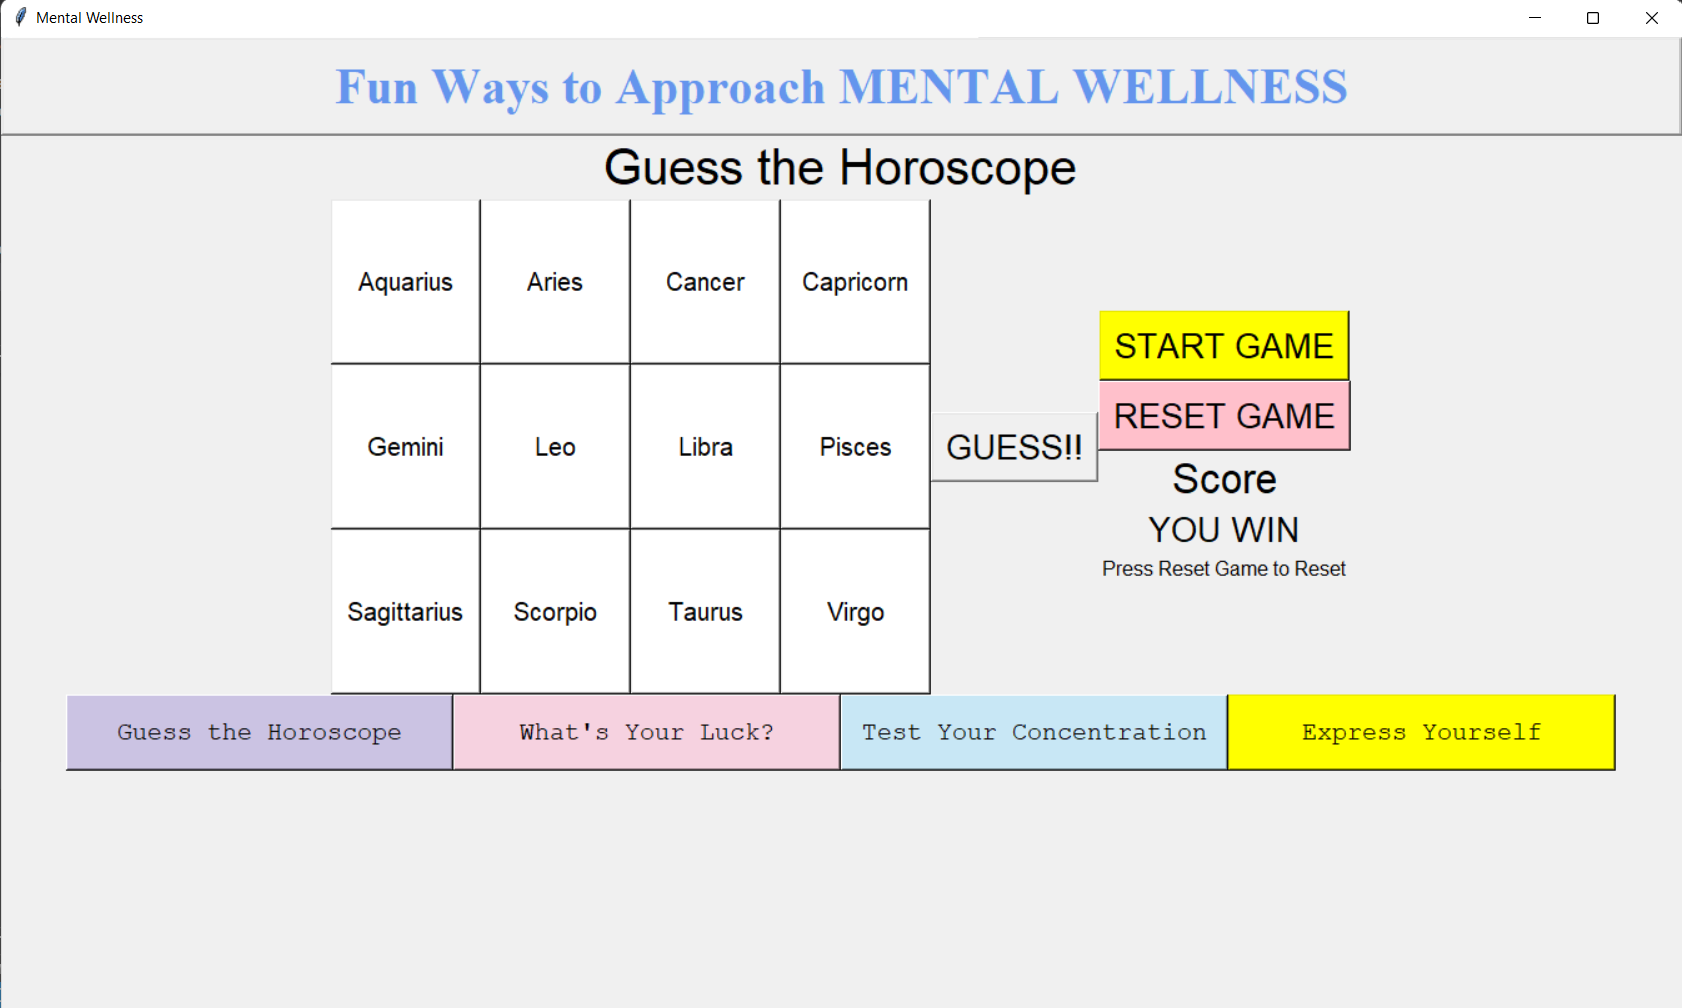
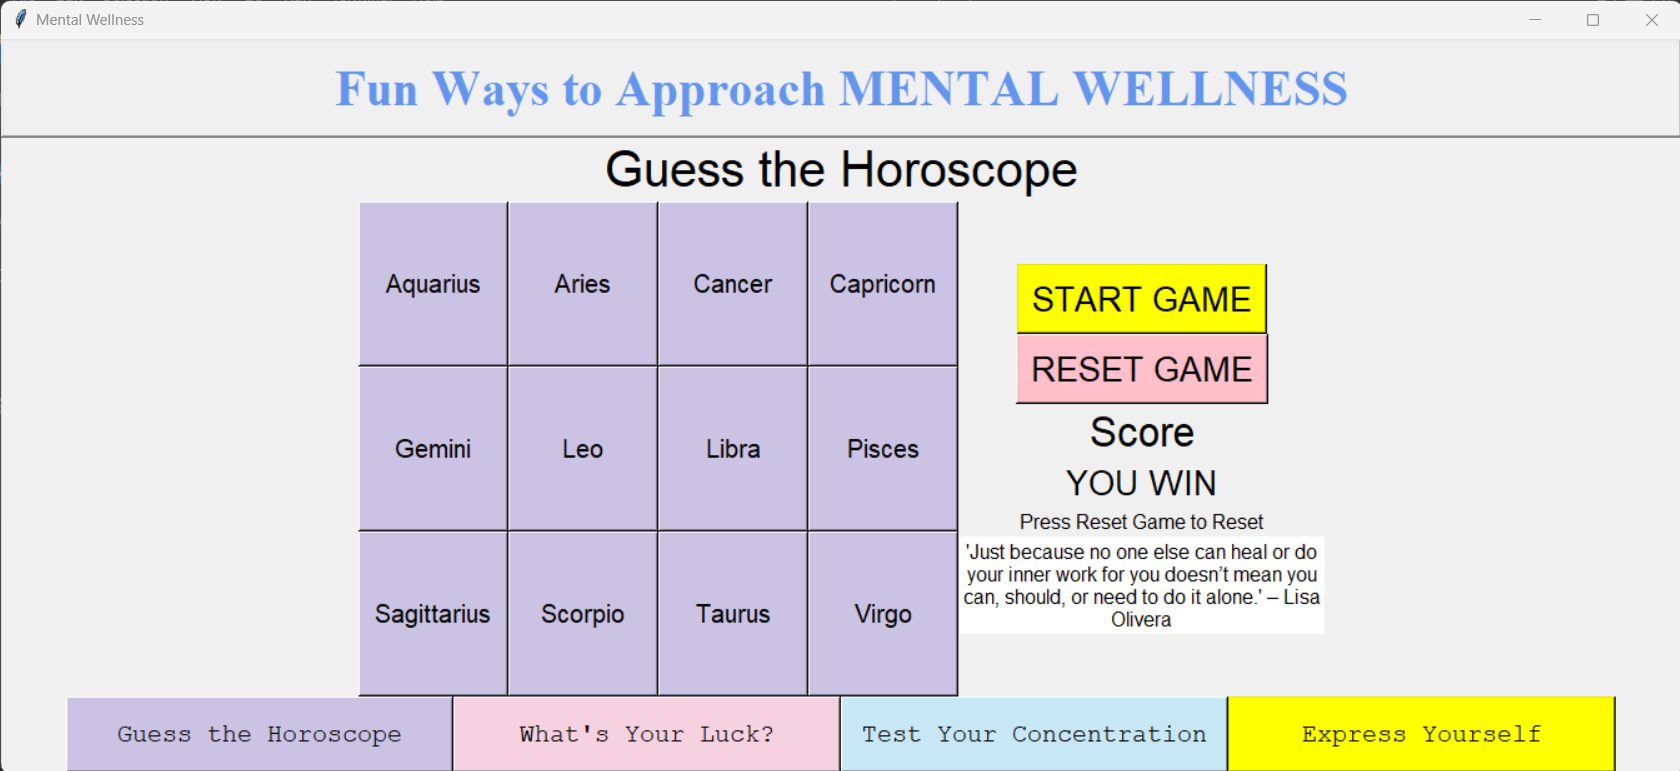
Updated README

diff --git a/README.md b/README.md
@@ -328,12 +328,8 @@ Click on "Start Game" to begin
 
 Once the game has started, all the images of the horosopes on the grid on the left side of the window will disappear, and will only display their respective names.
 
-<br>
-
-Next, click on the Guess button to generate a random Horoscope on the polariser board.
-
-![](Demo%20Pics/HoroGuess.png)
-*Press on 'Guess!!' to send image to polariser board*
+![](Demo%20Pics/HoroStarted.png)
+*Game has started*
 
 <br>
 
@@ -351,28 +347,28 @@ For example, if the polariser shows Cancer, click on the Cancer button on the GU
 
 <br>
 
-If you have chosen the correct horocsope, the grid on the left will turn green and you gain a point.
+If you have chosen the correct horocsope, your answer will be lighlighted green and you gain a point.
 
 ![](Demo%20Pics/HoroCorrect.png)
 *Correct answer*
 
 <br>
 
-However, if you have chosen the wrong horoscope, the grid will turn red and you lose a point.
+However, if you have chosen the wrong horoscope, your answer will be highlighted red and you lose a point.
 
 ![](Demo%20Pics/HoroWrong.png)
 *Wrong answer*
 
 <br>
 
-If you have -3 points, the grid will turn white and the game will end.
+You can continue guessing until you get the correct answer
 
-![](Demo%20Pics/HoroGameOver.png)
-*Game over with -3 points*
+![](Demo%20Pics/HoroGuessing.png)
+*Keep trying until you get it*
 
 <br>
 
-Likewise, if you acheive a score of 4, the grid will turn white, 'YOU WIN' will appear and the game will end.
+If you acheive a score of 4, 'YOU WIN' will appear and the game will end.
 
 ![](Demo%20Pics/HoroWin.png)
 *Win the game with a maximum of 4 points*
@@ -381,7 +377,7 @@ Likewise, if you acheive a score of 4, the grid will turn white, 'YOU WIN' will 
 
 You can click on the Reset Game button to start over.
 
-![](Demo%20Pics/HoroReset.png)
+![](Demo%20Pics/HoroWinReset.png)
 *Reset game*
 
 <br>
@@ -433,17 +429,20 @@ On this page, you can insert your date of birth, and it will generate a random l
 
 The luck percentages are as follows:
 - Genie Lamp
-    - 0-25% Luck
-- 50% Luck
+    - 50%
 - 75% Luck
 - 99% Luck
 
 <br>
 
-If the polariser displays genie lamp, it means your luck is either 0% or 25%. You can choose to try again by entering another date of birth.
+If the polariser displays genie lamp, it means your luck is 50%. You can choose to try again by entering another date of birth.
 
 ![Alt text](polariser%20pics/genie.jpg)
 *Genie lamp shown on polariser*
+
+Your UI will also display a random quote.
+![](Demo%20Pics/Luck50.png)
+*If you get a genie lamp on the polarizer, your UI will display a quote*
 
 <br>
 
